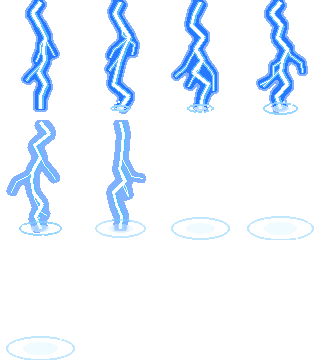
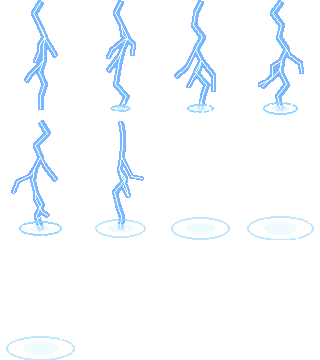
Sét Thiên Xu mỏng hết cỡ
Claude-Session: https://claude.ai/code/session_01MYwTvK6dULdzXHFPeBSgyd

diff --git a/CLAUDE.md b/CLAUDE.md
@@ -228,3 +228,4 @@ Gỡ hết `swhit` (đòn thường, điểm chạm C, Thiên Xu, Vạn Kiếm),
 - (24/11 đêm) **VFX va chạm A/B/C bớt rối:** `hitFx(x,y,ang,sc,sy,T)` thêm tham số dẹt (`sy`) và thời gian. Đòn thường: chỉ 1 chớp mỗi nhát (`cutFx.n<1`), `sc 0,55`, `sy 0,55`, T 0,14 s, đặt sát chân quái (`y=e.y-e.r*0,3`) góc ×0,35 cho nằm theo mặt đất. Điểm chạm C: `y=P.y+6`, `sc 0,8`, `sy 0,55`, T 0,16 s. Tia sao ở đầu vành C ngắn lại (cánh 11/6 px, trước 24/13), vẽ lại từ `o2/z/whole.png`.
 - (24/11 đêm) Chủ game: VFX va chạm A/B/C làm rối mắt → **bỏ hẳn** chớp va chạm của đòn thường và điểm chạm C (không còn `hitFx` ở A/B/C; `hitFx` vẫn dùng cho Hồi Phong). Sét Thiên Xu **nhốt trong vòng** (lệch tối đa 70×30 px quanh tâm trận, `sc 0,95`). Chủ game chê tia sét hiện tại xấu: cần PixelLab tạo tia sét đánh thẳng từ trên xuống (≈8 lượt) nhưng lệnh gọi bị hệ thống chặn, đang chờ chủ game cấp quyền.
 - (24/11 đêm) **Sét Thiên Xu làm lại, TỰ LÀM không PixelLab (chủ game ra lệnh):** `cong_cu/claude/set_bolt.py` dựng `set_bolt.png` (12 khung 80×120, điểm đánh `px:40 py:108`): tia sét dày gấp khúc có nhánh + quầng xanh, đổi hình mỗi khung, chớp tròn dẹt dưới đất, tia lửa. Trong game: mỗi đợt 1–2 tia đánh xuống quái trong vòng (kẹp elip 90×40 quanh tâm trận), nghỉ 0,15–0,5 s. `set_ring.png` (PixelLab) không còn dùng. Đây là ngoại lệ có chủ đích với luật "không vẽ VFX bằng code" (chủ game cho phép).
+- (24/11 đêm) Sét Thiên Xu **mỏng hết cỡ** (chủ game): lõi trắng 1 px, viền xanh 1 px mỗi bên, nhánh 2 px, quầng giảm (`set_bolt.py`: edge 3/2, glow nhẹ).
